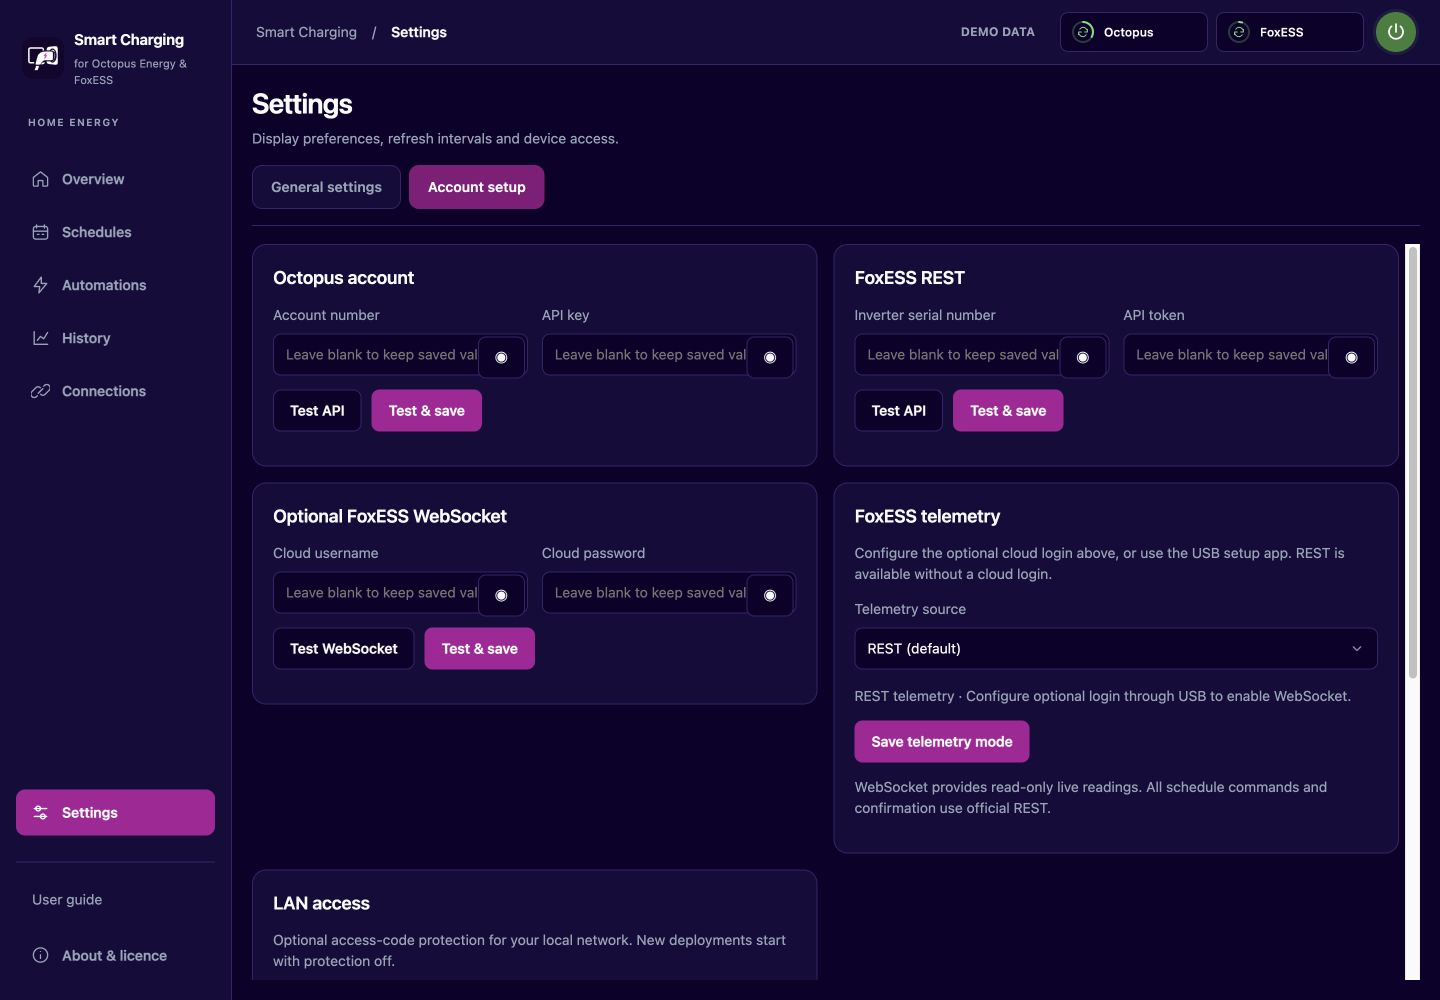
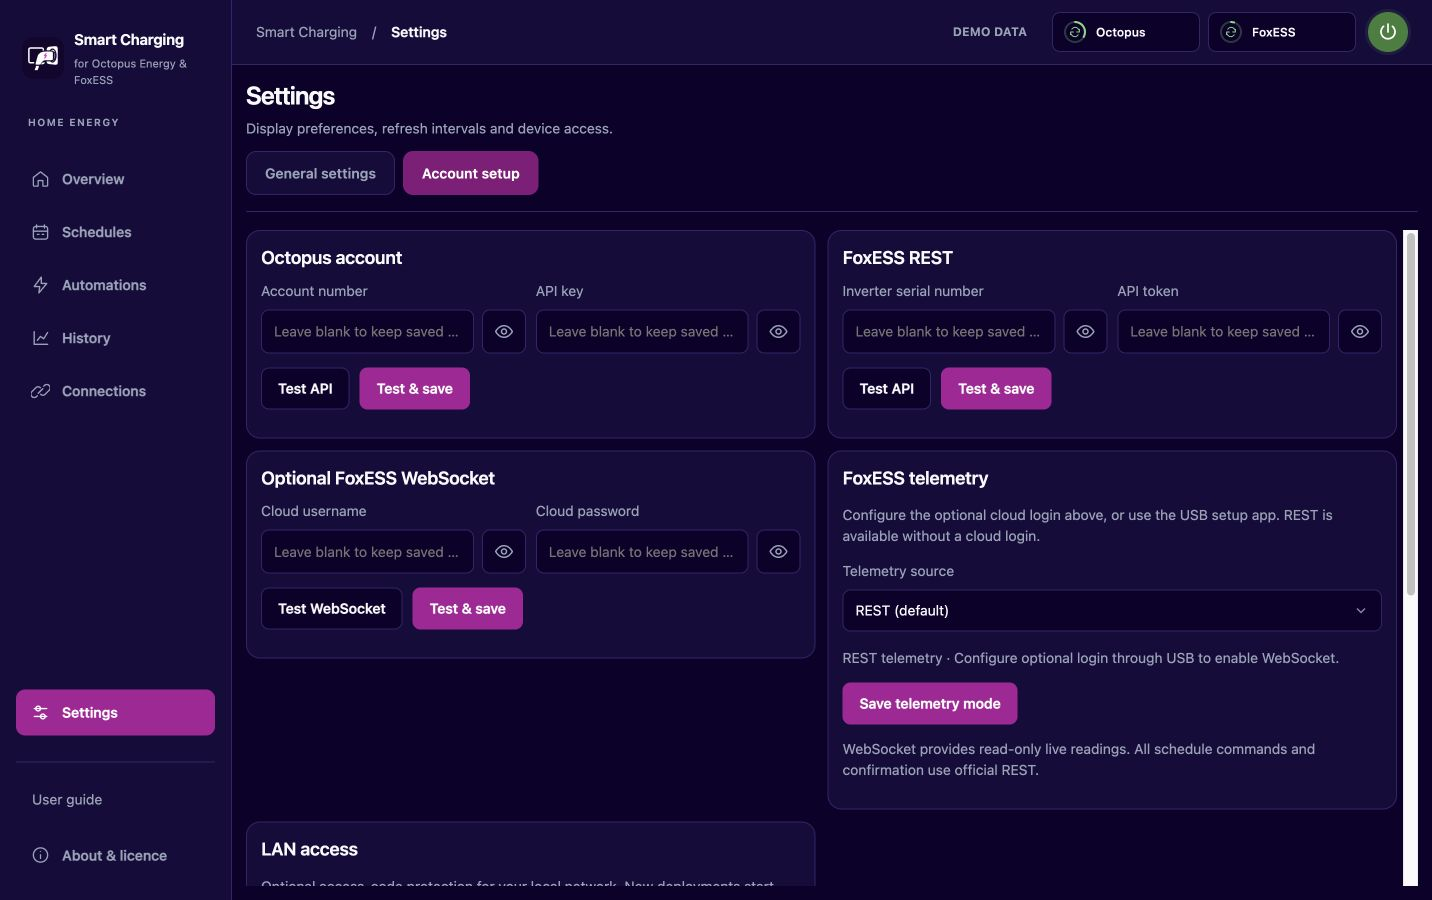
Present Smart Charging with a branded README, clear entry buttons and acknowledgements [skip ci]

diff --git a/README.md b/README.md
@@ -1,6 +1,25 @@
-# Smart Charging for Octopus Energy and FoxESS
+<div align="center">
 
-**Your EV, charging. Your home, protected.**
+<img src="src/icons/icon-192.png" alt="Smart Charging icon" width="96" height="96">
+
+# Smart Charging — for Octopus Energy and FoxESS
+
+### Your EV, charging. Your home, protected.
+
+A free, open-source home energy controller and dashboard.
+Follow Intelligent Octopus Go charging windows and keep your FoxESS battery available for your home.
+
+**Version 2.4.3 · ESP32, Raspberry Pi, Windows Portable and Web**
+
+<sub>Independent hobby software by SCKC. Not affiliated with Octopus Energy or FoxESS.</sub>
+
+<p><a href="https://samuelkcc.github.io/octopus-foxess-smart-charging/app/"><img src="docs/assets/open-html-dashboard.svg" alt="Open HTML Dashboard" height="52"></a> <a href="https://samuelkcc.github.io/octopus-foxess-smart-charging/esp32/"><img src="docs/assets/open-esp32-deploy.svg" alt="ESP32 Web Deploy" height="52"></a></p>
+
+[ESP32 guide](docs/editions/ESP32.md) · [Prepare your accounts](docs/ACCOUNT-PREPARATION.md) · [Compare editions](#choose-your-setup-guide) · [Downloads](https://github.com/samuelkcc/octopus-foxess-smart-charging/releases/tag/esp32-2.4.3)
+
+</div>
+
+## Why this project exists
 
 Intelligent Octopus Go can add or change EV charging windows throughout the day.
 A FoxESS inverter in Self-Use mode can supply that charging load from your home battery.
@@ -12,13 +31,6 @@ The dashboard shows charging windows beside measured power, so you can check wha
 
 This free hobby project by **SCKC** puts your home energy controls in one place.
 **ESP32 is the main independent local controller.** Pi, Windows Portable, and browser editions provide alternative ways to run it.
-
-## Open a tool
-
-| | Start here |
-|---|---|
-| [**HTML Dashboard**](https://samuelkcc.github.io/octopus-foxess-smart-charging/app/) | The simplest entry: no app installation. The built-in guide explains account and Google relay setup. Keep the browser open and awake. |
-| [**ESP32 Web Deploy**](https://samuelkcc.github.io/octopus-foxess-smart-charging/esp32/) | Install firmware and configure your board over USB. **Use desktop Chrome.** Mac and Windows setup apps are also available. |
 
 ## ESP32: a small controller for everyday use
 
@@ -79,13 +91,28 @@ Choose the host that fits your setup. Each column links to its own focused insta
 
 [Compare the editions](docs/USER-GUIDE.md#1-choose-an-edition) · [User guide](docs/USER-GUIDE.md) · [Downloads](https://github.com/samuelkcc/octopus-foxess-smart-charging/releases/tag/esp32-2.4.3)
 
-Independent software by **SCKC**, under **GPL-3.0-or-later**.
-Octopus Energy and FoxESS do not endorse or support this project.
+## Licence and acknowledgements
 
-[Licence](LICENSE) · [Third-party notices](THIRD_PARTY_NOTICES.md) · [Verification record](docs/FEATURE-PARITY.md) · [Architecture](docs/ARCHITECTURE.md)
+Created by **SCKC** as an independent, open-source hobby project.
+Smart Charging is released under [GPL-3.0-or-later](LICENSE), without warranty.
 
-## Support this hobby project
+Chart.js, CryptoJS, Electron, and ws retain MIT licensing.
+ESP-IDF and esptool-js retain Apache-2.0 and their bundled component terms.
+Optional cloudflared retains Apache-2.0 on supported computer hosts.
+Other bundled components retain their original licences.
 
-Smart Charging is free to use. If it helps your setup, you can support development with a coffee.
+The optional FoxESS signature integration adapts work by [Nick Farrell](https://github.com/nicois/foxess-control), under MIT.
+Complete original notices are available in **About & licence**, the [third-party notices](THIRD_PARTY_NOTICES.md), and the [ESP32 SDK notices](esp32/SDK_NOTICES.txt).
+
+Smart Charging is independently developed by SCKC.
+It is not made by, authorised, sponsored, endorsed, or supported by Octopus Energy or FoxESS.
+Product and company names belong to their respective owners.
+
+[Report an issue](https://github.com/samuelkcc/octopus-foxess-smart-charging/issues) · [Verification record](docs/FEATURE-PARITY.md) · [Architecture](docs/ARCHITECTURE.md)
+
+## Support the project
+
+Smart Charging is an independent hobby project by SCKC.
+If it helps protect your home battery, you can support its ongoing development by buying Samuel a coffee.
 
 <a href="https://buymeacoffee.com/samuelchen"><img src="https://cdn.buymeacoffee.com/buttons/v2/default-yellow.png" alt="Buy me a coffee — support Smart Charging" width="217" height="60"></a>

diff --git a/docs/screenshots/README.md b/docs/screenshots/README.md
@@ -1,6 +1,6 @@
 # Interface screenshots
 
-Updated on 6 November 2026 for version 2.4.2.
+Updated on 6 November 2026. Account setup reflects the 2.4.3 eye-control correction.
 
 All published interface images use dark appearance and isolated demonstration services.
 No screenshot contains a real account, device identifier, API key, password, or remote key.
